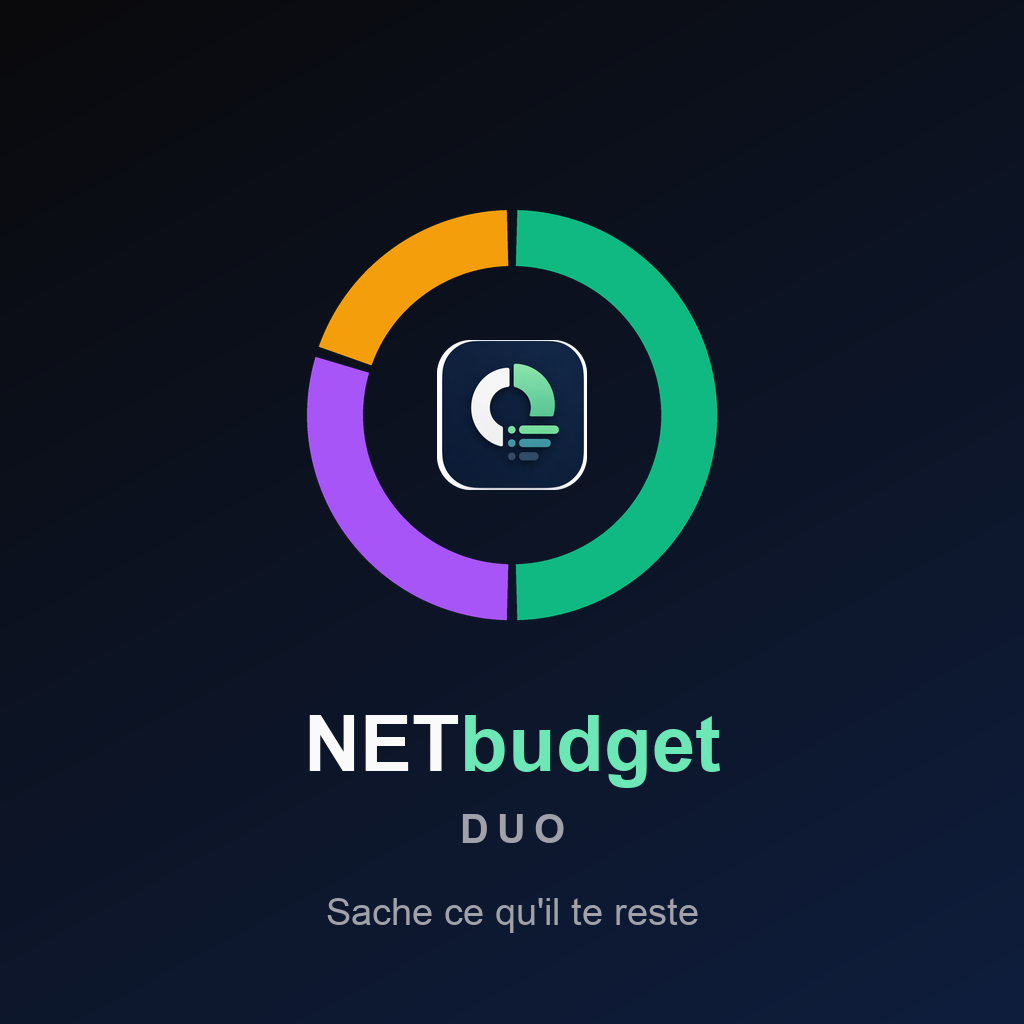
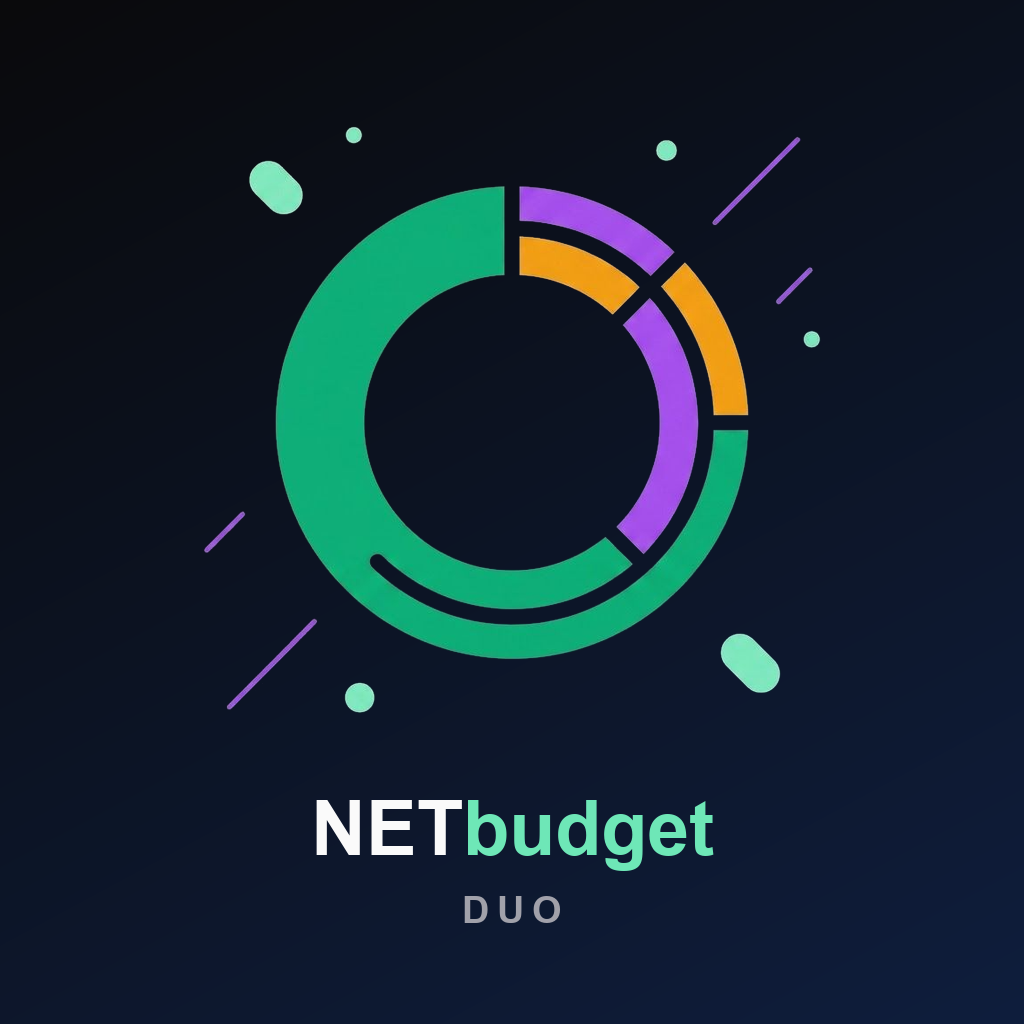
assets: image d'abonnement composee a partir de l'illustration generee
L'illustration fournie etait bonne — anneau propre, couleurs exactes — mais le
modele avait rendu 'degrade diagonal' comme une COUPURE : une ligne franche
traversait toute l'image. On isole donc les formes et on les repose sur un
degrade calcule pixel par pixel, sans raccord.

Le texte est ajoute ICI et pas par le modele : les generateurs d'image
produisent presque toujours des lettres deformees, et le nom d'une marque ne se
confie pas a eux.

RECADRAGE SUR LE CONTENU REEL, via la boite englobante du masque. Une
illustration generee porte ses propres marges, differentes a chaque
generation : s'y fier laissait un vide entre le motif et le nom, et ce vide
changeait d'une image a l'autre. Le decoupage rend la mise en page previsible
quelle que soit l'illustration fournie.

Le masque s'appuie sur la LUMINOSITE et non sur une couleur precise : les arcs
sont satures et clairs, le fond est sombre des deux cotes de la coupure. Un
simple 'retire cette couleur' aurait echoue sur l'un des deux.

Verifie a 120 et 60 pixels : le nom reste lisible a 120, et a 60 l'anneau seul
porte l'identite — personne ne lit du texte a cette taille.

L'illustration source est conservee pour pouvoir recomposer.

diff --git a/marketing/appstore/composer-illustration.py b/marketing/appstore/composer-illustration.py
@@ -1,0 +1,173 @@
+#!/usr/bin/env python3
+# -*- coding: utf-8 -*-
+"""Reprend une illustration generee et en fait l'image d'abonnement finale.
+
+POURQUOI CE SCRIPT PLUTOT QU'UN OUTIL D'IMAGE :
+
+1. LE FOND EST A REFAIRE. Le modele a rendu « degrade diagonal » comme une
+   coupure franche : une ligne traverse toute l'image. On isole donc les
+   formes coloree et on les repose sur un degrade propre.
+
+2. LE TEXTE EST AJOUTE ICI, pas par le modele. Les generateurs d'image
+   produisent presque toujours des lettres deformees — le nom d'une marque ne
+   se confie pas a eux.
+
+3. C'est REPRODUCTIBLE. Une nouvelle illustration, une commande, et les quatre
+   fichiers sont regeneres a l'identique.
+
+Usage :
+    marketing/promo-video/.venv/bin/python marketing/appstore/composer-illustration.py <illustration.png>
+"""
+
+import os
+import sys
+
+from PIL import Image, ImageDraw, ImageFilter, ImageFont
+
+HERE = os.path.dirname(os.path.abspath(__file__))
+SIZE = 1024
+
+INK = (10, 10, 12)
+MIDNIGHT = (15, 30, 61)
+TEXT_1 = (250, 250, 250)
+TEXT_2 = (161, 161, 170)
+MINT_LIGHT = (110, 231, 183)
+
+FONT_DIRS = ["/System/Library/Fonts/Supplemental", "/System/Library/Fonts", "/Library/Fonts"]
+
+
+def font(name, size):
+    for d in FONT_DIRS:
+        p = os.path.join(d, name)
+        if os.path.exists(p):
+            return ImageFont.truetype(p, size)
+    return ImageFont.load_default(size)
+
+
+bold = lambda s: font("Arial Bold.ttf", s)
+regular = lambda s: font("Arial.ttf", s)
+
+
+def gradient(w, h):
+    """Degrade diagonal DOUX, calcule pixel par pixel. Aucune couture."""
+    g = Image.new("RGB", (w, h))
+    px = g.load()
+    for y in range(h):
+        for x in range(w):
+            k = (x / w) * 0.35 + (y / h) * 0.65
+            px[x, y] = tuple(int(INK[i] + (MIDNIGHT[i] - INK[i]) * k) for i in range(3))
+    return g
+
+
+def isolate(src):
+    """Masque des formes colorees, en ignorant le fond sombre.
+
+    Le critere est la LUMINOSITE, pas une couleur precise : les arcs sont
+    satures et clairs, le fond est sombre quelle que soit sa teinte. Cela
+    fonctionne donc des deux cotes de la coupure, ce qu'un simple « retire
+    cette couleur » ne ferait pas.
+    """
+    rgb = src.convert("RGB")
+    w, h = rgb.size
+    mask = Image.new("L", (w, h), 0)
+    mpx = mask.load()
+    spx = rgb.load()
+
+    for y in range(h):
+        for x in range(w):
+            r, g, b = spx[x, y]
+            lum = 0.299 * r + 0.587 * g + 0.114 * b
+            # Seuil bas : le fond le plus clair de l'image monte a ~40 de
+            # luminosite, les formes demarrent bien au-dessus.
+            if lum > 60:
+                mpx[x, y] = 255
+            elif lum > 42:
+                # Zone de transition : demi-opacite, pour ne pas decouper les
+                # bords en escalier.
+                mpx[x, y] = int((lum - 42) / 18 * 255)
+
+    # Un flou tres leger adoucit le contour sans manger les formes.
+    return mask.filter(ImageFilter.GaussianBlur(0.6))
+
+
+def centered(d, text, f, y, fill):
+    w = d.textlength(text, font=f)
+    d.text(((SIZE - w) / 2, y), text, font=f, fill=fill)
+
+
+def compose(illustration_path, filename, tier_label):
+    src = Image.open(illustration_path).convert("RGB")
+    if src.size != (SIZE, SIZE):
+        src = src.resize((SIZE, SIZE), Image.LANCZOS)
+
+    img = gradient(SIZE, SIZE)
+
+    # RECADRAGE SUR LE CONTENU REEL. L'illustration generee porte ses propres
+    # marges, differentes a chaque generation. S'y fier laisse un vide entre le
+    # motif et le nom de marque, et ce vide change d'une image a l'autre. On
+    # decoupe donc sur la boite englobante des formes : la mise en page devient
+    # previsible quelle que soit l'illustration fournie.
+    mask = isolate(src)
+    box = mask.getbbox()
+    if box:
+        src = src.crop(box)
+        mask = mask.crop(box)
+
+    # Carre, pour ne pas deformer : on complete le cote le plus court.
+    w, h = src.size
+    side = max(w, h)
+    square = Image.new("RGB", (side, side), INK)
+    square_mask = Image.new("L", (side, side), 0)
+    off = ((side - w) // 2, (side - h) // 2)
+    square.paste(src, off)
+    square_mask.paste(mask, off)
+
+    art_size = 620
+    art = square.resize((art_size, art_size), Image.LANCZOS)
+    art_mask = square_mask.resize((art_size, art_size), Image.LANCZOS)
+    img.paste(art, ((SIZE - art_size) // 2, 110), art_mask)
+
+    d = ImageDraw.Draw(img)
+
+    f_brand = bold(76)
+    net_w = d.textlength("NET", font=f_brand)
+    budget_w = d.textlength("budget", font=f_brand)
+    x = (SIZE - (net_w + budget_w)) / 2
+    d.text((x, 786), "NET", font=f_brand, fill=TEXT_1)
+    d.text((x + net_w, 786), "budget", font=f_brand, fill=MINT_LIGHT)
+
+    if tier_label:
+        f_tier = bold(38)
+        letters = tier_label.upper()
+        total = sum(d.textlength(c, font=f_tier) + 8 for c in letters) - 8
+        x = (SIZE - total) / 2
+        for c in letters:
+            d.text((x, 888), c, font=f_tier, fill=TEXT_2)
+            x += d.textlength(c, font=f_tier) + 8
+    else:
+        centered(d, "Sache ce qu'il te reste", regular(36), 886, TEXT_2)
+
+    out = os.path.join(HERE, filename)
+    img.save(out, "PNG", optimize=True)
+    print(f"  {filename}  ({os.path.getsize(out) // 1024} Ko)")
+
+
+def main():
+    if len(sys.argv) < 2:
+        print("Usage : composer-illustration.py <illustration.png>", file=sys.stderr)
+        return 1
+    src = sys.argv[1]
+    if not os.path.exists(src):
+        print(f"Introuvable : {src}", file=sys.stderr)
+        return 1
+
+    print("Images composees :")
+    compose(src, "abonnement-solo-1024.png", "Solo")
+    compose(src, "abonnement-duo-1024.png", "Duo")
+    compose(src, "abonnement-famille-1024.png", "Famille")
+    compose(src, "abonnement-1024.png", "")
+    return 0
+
+
+if __name__ == "__main__":
+    sys.exit(main())
